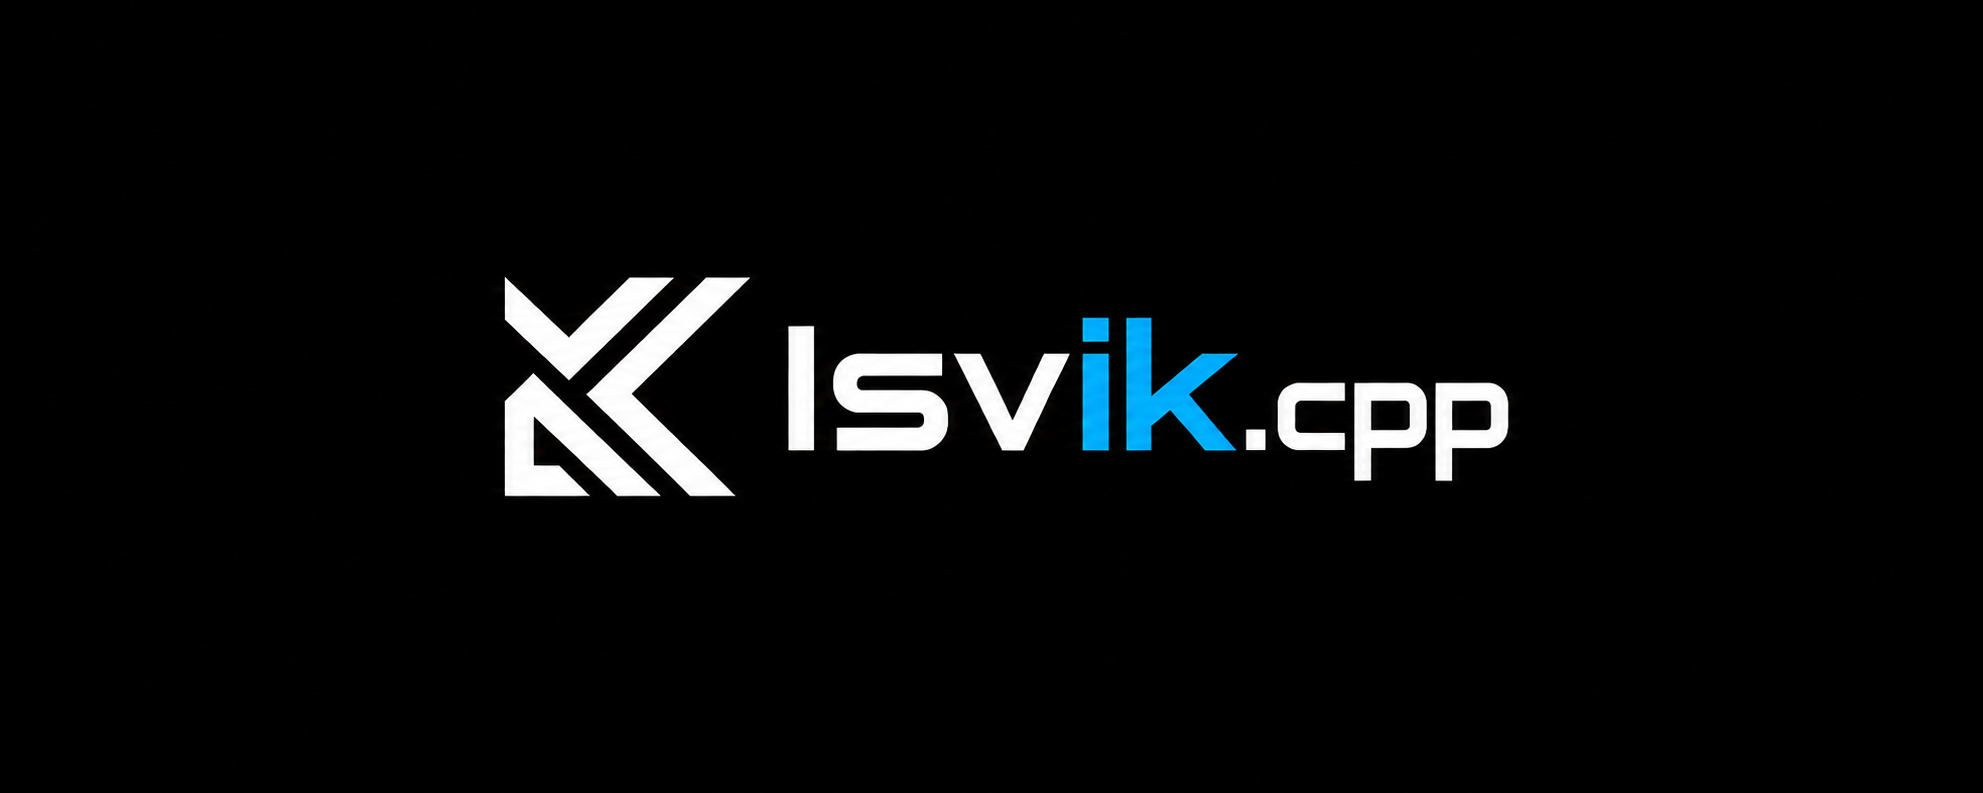
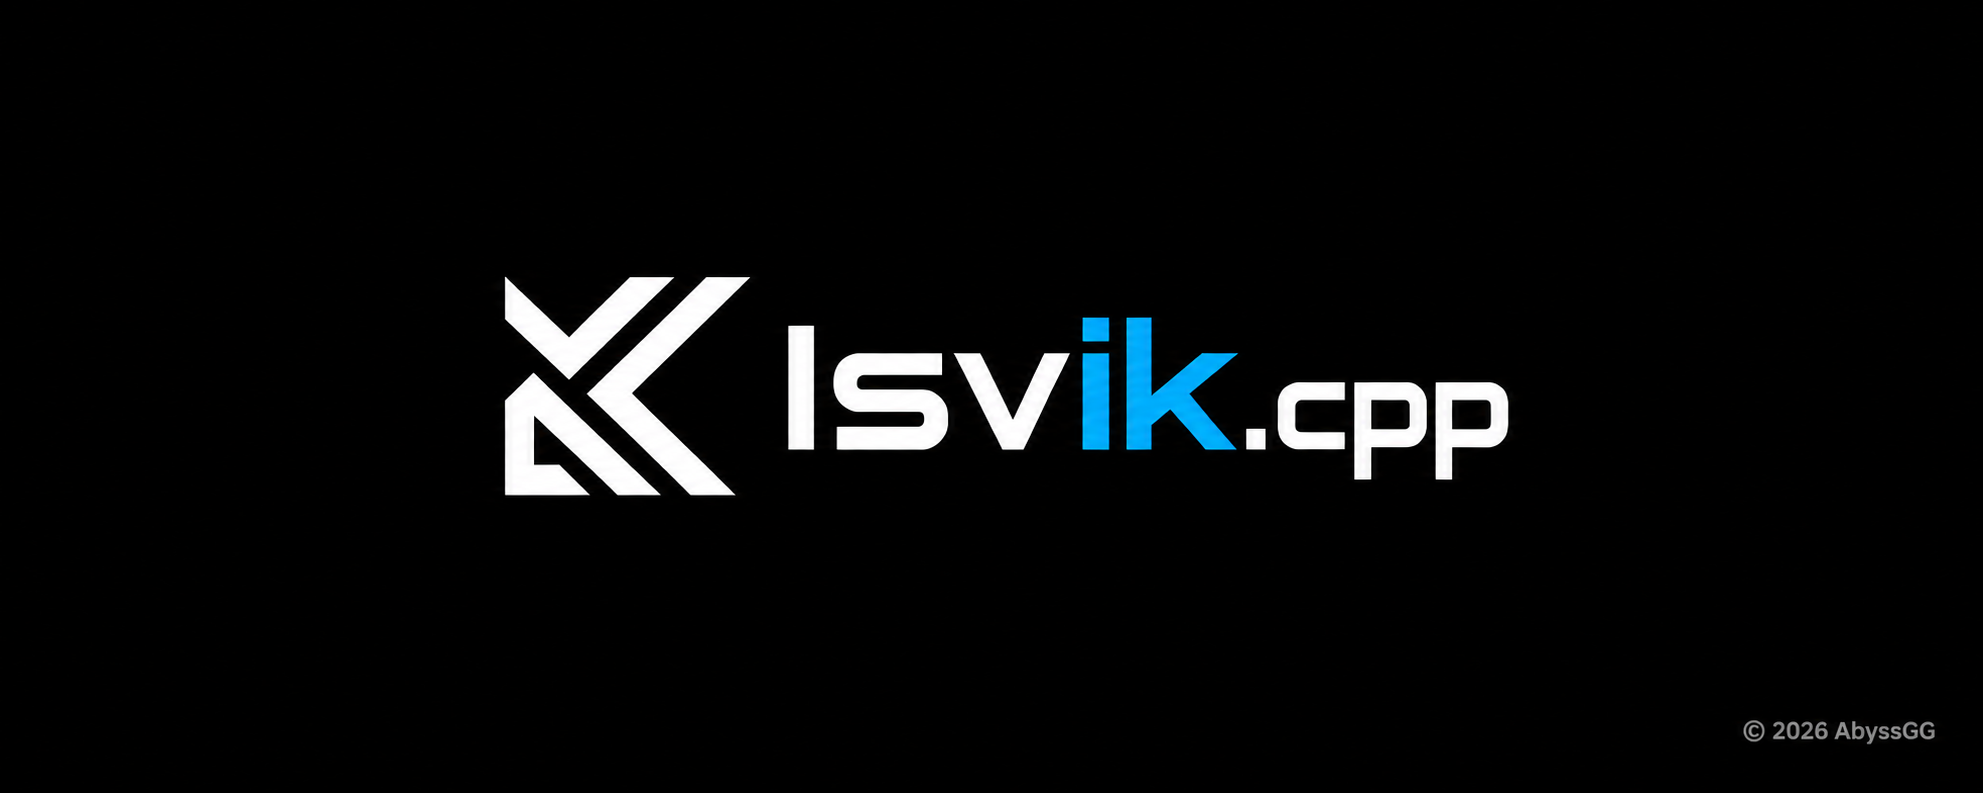
Add copyright mark and branding guidance

Changed region(s): [[0.8613, 0.9079, 0.9844, 0.9382], [0.2461, 0.6053, 0.3691, 0.6356], [0.4307, 0.5145, 0.4614, 0.5448]]

diff --git a/BRANDING.md b/BRANDING.md
@@ -1,0 +1,13 @@
+# Isvik.cpp branding / 品牌使用说明
+
+The Isvik.cpp symbol, wordmark, name, and banner identify this project. The banner displays `© 2026 AbyssGG`.
+
+The source code is available under [Apache License 2.0](LICENSE). Section 6 of that license does not grant trademark rights to the project name or logo. When reproducing the banner, keep its copyright notice visible. Do not use the branding to imply that AbyssGG endorses another product or service. For use as another product's logo or in merchandise, contact the repository owner first.
+
+Isvik.cpp 图形、字标、名称和横幅用于识别本项目。横幅上标有 `© 2026 AbyssGG`。
+
+源代码采用 [Apache License 2.0](LICENSE)。该许可证第 6 条不授予项目名称或 Logo 的商标使用权。转载横幅时请保留版权标记；请勿让其他产品或服务看起来得到 AbyssGG 背书。若要将 Logo 用于其他产品或商品，请先联系仓库所有者。
+
+The copyright notice identifies the claimed rights holder; it does not by itself prevent unauthorized copying or establish trademark registration.
+
+版权标记用于表明权利主张，本身不能阻止未经授权的复制，也不代表已完成商标注册。

diff --git a/README.md b/README.md
@@ -136,3 +136,5 @@ See the [code of conduct](CODE_OF_CONDUCT.md), [security policy](SECURITY.md), a
 ## License
 
 Isvik.cpp is licensed under the [Apache License 2.0](LICENSE). Third-party dependencies retain their own license terms.
+
+The Isvik.cpp logo and wordmark carry a `© 2026 AbyssGG` notice. The Apache-2.0 license does not grant trademark rights to the project name or logo. See the [branding guidance](BRANDING.md) before reusing them.

diff --git a/README.zh-CN.md b/README.zh-CN.md
@@ -136,3 +136,5 @@ cmake --build --preset linux-gcc-release --parallel
 ## 许可证
 
 Isvik.cpp 使用 [Apache License 2.0](LICENSE)。第三方依赖保留各自的许可证条款。
+
+Isvik.cpp 的 Logo 和字标标注为 `© 2026 AbyssGG`。Apache-2.0 许可证不授予项目名称或 Logo 的商标使用权。复用前请阅读[品牌使用说明](BRANDING.md)。
